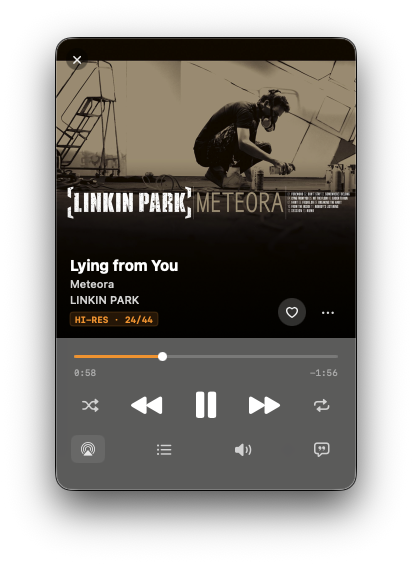
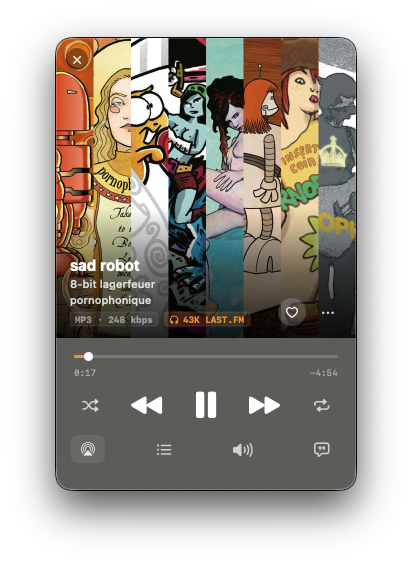
5.2.1: replace screenshots with CC/indie library covers; remove problematic boards (mac sleep-timer/recently-played/search, tvOS playlists, watch albums/artists, ipad genres/radios)

diff --git a/ipad.html b/ipad.html
@@ -175,18 +175,6 @@
           </div>
         </article>
 
-        <article class="p-shot p-shot--reverse reveal" role="listitem">
-          <figure class="p-shot__media">
-            <img src="assets/screenshots/ipad/navibeat-ipad-genres.jpg"
-                 alt="NaviBeat Genres browser on iPad with genre tiles"
-                 width="1800" height="1350" loading="lazy" decoding="async">
-          </figure>
-          <div class="p-shot__copy">
-            <p class="eyebrow">04 / Genres</p>
-            <h3>Browse by genre, like you own the collection.</h3>
-            <p>Every genre in your Navidrome library shows as a tile. Tap into any genre for all matching albums. The genre browser is the fastest way to find the right mood without knowing the exact album name.</p>
-          </div>
-        </article>
 
       </div>
     </div>
@@ -211,20 +199,12 @@
           <p class="strip__caption">Albums</p>
         </div>
         <div class="strip__item">
-          <img src="assets/screenshots/ipad/navibeat-ipad-genres.jpg" alt="Genres" width="1800" height="1350" loading="lazy" decoding="async">
-          <p class="strip__caption">Genres</p>
-        </div>
-        <div class="strip__item">
           <img src="assets/screenshots/ipad/navibeat-ipad-lyrics.jpg" alt="Lyrics" width="1800" height="1350" loading="lazy" decoding="async">
           <p class="strip__caption">Lyrics</p>
         </div>
         <div class="strip__item">
           <img src="assets/screenshots/ipad/navibeat-ipad-queue.jpg" alt="Queue" width="1800" height="1350" loading="lazy" decoding="async">
           <p class="strip__caption">Up Next queue</p>
-        </div>
-        <div class="strip__item">
-          <img src="assets/screenshots/ipad/navibeat-ipad-radios.png" alt="Radio" width="1800" height="1350" loading="lazy" decoding="async">
-          <p class="strip__caption">Internet Radio</p>
         </div>
         <div class="strip__item">
           <img src="assets/screenshots/ipad/navibeat-ipad-directories.png" alt="Directories" width="1800" height="1350" loading="lazy" decoding="async">

diff --git a/macos.html b/macos.html
@@ -188,19 +188,6 @@
 
         <article class="p-shot reveal" role="listitem">
           <figure class="p-shot__media">
-            <img src="assets/screenshots/macos/navibeat-mac-mini-sleep-timer.png"
-                 alt="NaviBeat sleep timer in the Mini Player on Mac"
-                 width="800" height="500" loading="lazy" decoding="async">
-          </figure>
-          <div class="p-shot__copy">
-            <p class="eyebrow">05 / Sleep Timer</p>
-            <h3>Fade out after 15, 30, or 60 minutes.</h3>
-            <p>Set a sleep timer from the Mini Player or the toolbar. NaviBeat fades out the audio gracefully before stopping &mdash; no abrupt cuts when you fall asleep. The timer survives Mini Player toggles and window switches.</p>
-          </div>
-        </article>
-
-        <article class="p-shot p-shot--reverse reveal" role="listitem">
-          <figure class="p-shot__media">
             <img src="assets/screenshots/macos/navibeat-mac-radios.png"
                  alt="NaviBeat Internet Radio stations list on Mac"
                  width="1240" height="724" loading="lazy" decoding="async">
@@ -261,14 +248,6 @@
         <div class="strip__item">
           <img src="assets/screenshots/macos/navibeat-mac-radios.png" alt="Radio" width="1240" height="724" loading="lazy" decoding="async">
           <p class="strip__caption">Internet Radio</p>
-        </div>
-        <div class="strip__item">
-          <img src="assets/screenshots/macos/navibeat-mac-search.png" alt="Search" width="1240" height="724" loading="lazy" decoding="async">
-          <p class="strip__caption">Search</p>
-        </div>
-        <div class="strip__item">
-          <img src="assets/screenshots/macos/navibeat-mac-recently-played.png" alt="Recently Played" width="1240" height="724" loading="lazy" decoding="async">
-          <p class="strip__caption">Recently Played</p>
         </div>
         <div class="strip__item">
           <img src="assets/screenshots/macos/navibeat-mac-directories.png" alt="Directories" width="1240" height="724" loading="lazy" decoding="async">

diff --git a/applewatch.html b/applewatch.html
@@ -144,22 +144,6 @@
         </figure>
 
         <figure style="display:flex;flex-direction:column;gap:12px;">
-          <img src="assets/screenshots/watch/navibeat-watch-albums.png"
-               alt="NaviBeat Albums browser on Apple Watch"
-               width="410" height="502" loading="lazy" decoding="async"
-               style="border-radius:22px;border:1px solid var(--border);width:100%;height:auto;">
-          <figcaption style="font-family:var(--font-mono);font-size:10px;letter-spacing:0.12em;text-transform:uppercase;color:var(--text-2);">Albums</figcaption>
-        </figure>
-
-        <figure style="display:flex;flex-direction:column;gap:12px;">
-          <img src="assets/screenshots/watch/navibeat-watch-artists.png"
-               alt="NaviBeat Artists browser on Apple Watch"
-               width="410" height="502" loading="lazy" decoding="async"
-               style="border-radius:22px;border:1px solid var(--border);width:100%;height:auto;">
-          <figcaption style="font-family:var(--font-mono);font-size:10px;letter-spacing:0.12em;text-transform:uppercase;color:var(--text-2);">Artists</figcaption>
-        </figure>
-
-        <figure style="display:flex;flex-direction:column;gap:12px;">
           <img src="assets/screenshots/watch/navibeat-watch-downloads.png"
                alt="NaviBeat pinned downloads on Apple Watch"
                width="410" height="502" loading="lazy" decoding="async"

diff --git a/appletv.html b/appletv.html
@@ -248,10 +248,6 @@
           <p class="strip__caption">Album detail + track list</p>
         </div>
         <div class="strip__item">
-          <img src="assets/screenshots/tvos/navibeat-apple-tv-playlists.jpg" alt="Playlists" width="2400" height="1350" loading="lazy" decoding="async">
-          <p class="strip__caption">Playlists</p>
-        </div>
-        <div class="strip__item">
           <img src="assets/screenshots/tvos/navibeat-apple-tv-lyrics-synced.jpg" alt="Lyrics" width="2400" height="1350" loading="lazy" decoding="async">
           <p class="strip__caption">Time-synced lyrics</p>
         </div>
